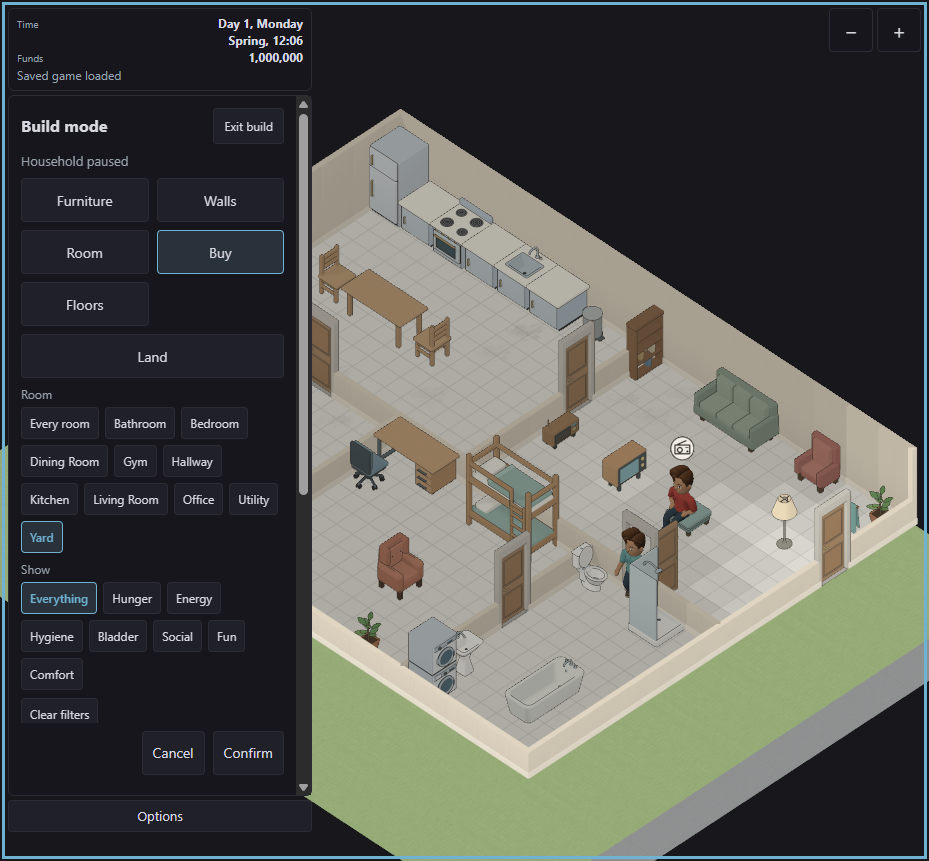
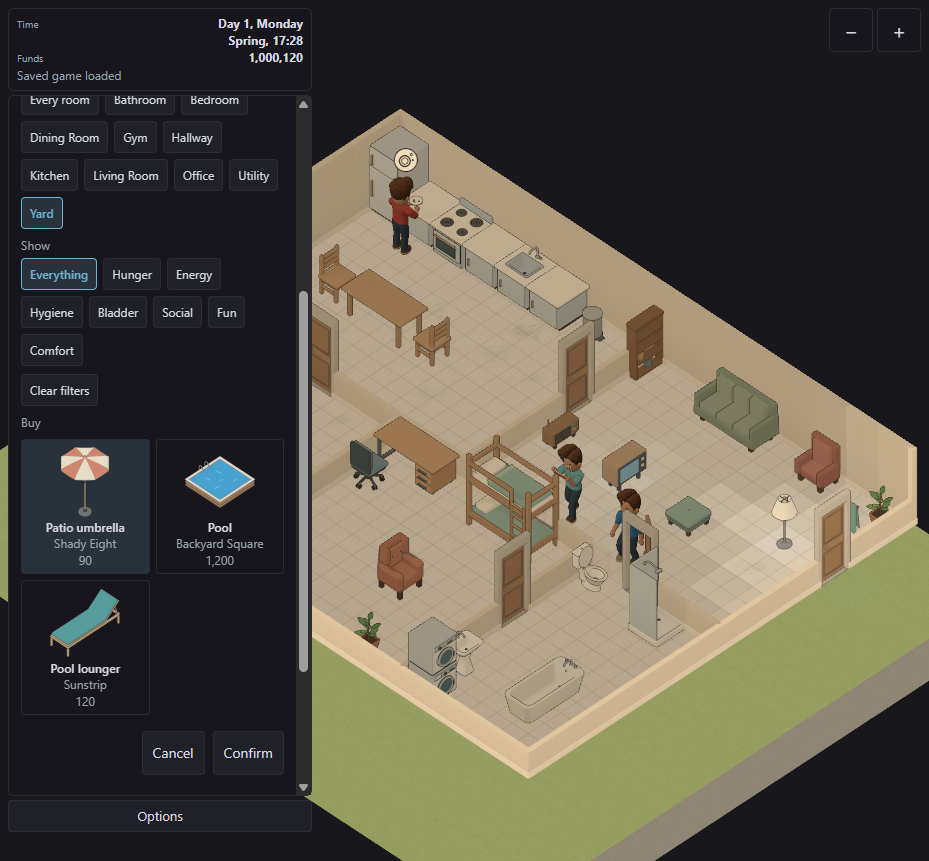
Retake the outdoor furniture played pass with depth and both lounger facings
Frames now show the Yard cards, all three items on the grass, Bill seated clear of the bottom panel, and a second seated check with the lounger's backrest end facing the camera, all on the build whose outdoor sprites carry registered depth. The README separates what the frames show from what the page reported, explains the timeline before Bill sat, and says what was not checked.

diff --git a/docs/evidence/2026-10-17-outdoor-furniture/README.md b/docs/evidence/2026-10-17-outdoor-furniture/README.md
@@ -1,18 +1,26 @@
 # Outdoor furniture played pass, 2026-10-17
 
-A played check of the pool, the pool lounger and the patio umbrella (issue 250, `docs/specs/2026-10-17-outdoor-furniture.md`) on the production bundle of branch `twcl/250-outdoor` at commit `a6601921a` (`index-ogptpZ8i.js`, rebuilt from the committed tree after main was merged in, so the placement marker and the seasons clock appear too). It was served by `vite preview` on port 4173 and driven in a Playwright-controlled Chromium window, because the desktop app's browser pane was hidden and could not draw. The household's money came from a schema-thirteen save of the shipped lot with $1,000,000, written into the page's save slot; the game's sound was muted. Frames are lossless 929 by 861 captures, after one step of Zoom out from frame 03 on; frame 08 is a four times enlargement of frame 07. The art itself was reviewed separately in `docs/assets/review-evidence/outdoor/2026-10-17/art-review.md`.
+A played check of the pool, the pool lounger and the patio umbrella (issue 250, `docs/specs/2026-10-17-outdoor-furniture.md`) on the production bundle `index-Dd0DGKyd.js`, built from branch `twcl/250-outdoor` at commit `960dfd1b9`. Its WebAssembly module was built just before that commit merged main's pull request 288, which changed only comments, tests and one function's visibility in the simulation crate. From this build each outdoor sprite has registered depth in the `outdoor-depth` bundle, so frames 07 to 10 show the seated pose drawn with it.
+
+The bundle was served by `vite preview` on port 4173 and driven in a Playwright-controlled Chromium window, because the desktop app's browser pane was hidden and could not draw. The household's money came from a save of the shipped lot written into the page's save slot; the clock ran for about 20 seconds while the page loaded, and the game was paused at Day 1, 17:28 with funds of 1,000,120. The game's sound was muted. The art itself was reviewed separately in `docs/assets/review-evidence/outdoor/2026-10-17/art-review.md`.
+
+Frames are lossless 929 by 861 captures. Frames 02 to 07 and 09 are taken after one step of Zoom out and a middle-button drag that brought the yard in front of the house into view. Frames 08 and 10 are four times enlargements of frames 07 and 09.
 
 | Image | Moment | What it shows |
 | --- | --- | --- |
-| `01-yard-filter.png` | Build mode, the Buy tool, the new Yard button under Room pressed | Yard listed as a Room button, and the three cards it leaves: Patio umbrella, Shady Eight, $90; Pool, Backyard Square, $1,200; Pool lounger, Sunstrip, $120. |
-| `02-pool-ghost.png` | The pool chosen and placed on the yard below the house; Ready to buy. | The pool's ghost on the grass inside one blue floor ellipse, with Buy $1,200 beside it. |
-| `03-lounger-ghost-south-west.png` | The pool bought, then the lounger placed beside it facing south-west; Ready to buy. | The lounger's ghost inside one long ellipse tilted along it, with Buy $120 beside it. |
-| `04-lounger-ghost-north-west.png` | The lounger turned clockwise once; Ready to buy. | The lounger and its ellipse turned to face north-west. |
-| `05-three-bought.png` | The lounger turned back and bought, then the umbrella placed and bought | The pool, the lounger and the umbrella on the yard, funds 998,590 (1,000,000 less $1,200, $120 and $90); the red ellipse is the next umbrella's ghost, refused because the spot is now taken. |
-| `06-lounger-menu.png` | After the footer's Confirm and Exit build, Bill selected, a right-click on the lounger | The action menu titled Pool lounger, Sunstrip, with Sit, Enter build mode and Nothing. |
-| `07-housemate-on-lounger.png` | Sit chosen, the clock run until Bill reached the lounger | Bill sitting on the lounger in the yard at night, with the seat bubble over his head and the selection ring under him. |
-| `08-housemate-on-lounger-zoom.png` | Frame 07 enlarged around the lounger | Bill's whole body on the lounger's front edge with his feet on the grass, the ring under his feet and the bubble above his head. |
+| `01-yard-filter.png` | Build mode, the Buy tool, the Yard button under Room pressed | The Yard filter pressed and the three cards it leaves, each with its picture: Patio umbrella, Shady Eight, 90; Pool, Backyard Square, 1,200; Pool lounger, Sunstrip, 120. |
+| `02-pool-ghost.png` | The pool chosen and moved onto the grass in front of the house | The pool's ghost on the grass inside one blue floor ellipse, with Buy $1,200 above it. |
+| `03-lounger-ghost-south-west.png` | The pool bought, then the lounger moved beside it in its first facing | The lounger's ghost inside one long ellipse tilted along it, with Buy $120 above it; the pool sits behind the Choose item and Cancel bar. |
+| `04-lounger-ghost-north-west.png` | The lounger turned clockwise once | The lounger and its ellipse turned. |
+| `05-three-bought.png` | The lounger turned back and bought, the umbrella placed on the grass and bought, and the selection cleared | The pool, the lounger and the umbrella on the grass, with funds of 998,710: 1,000,120 less $1,200, $120 and $90. |
+| `06-lounger-menu.png` | After the footer's Confirm, which also left Build mode, Bill selected and a right-click on the lounger | The action menu titled Pool lounger, Sunstrip, with Sit, Enter build mode and Nothing. |
+| `07-housemate-on-lounger.png` | Sit ordered, the clock run until Bill sat, paused at 22:18 | Bill sitting on the lounger at night, with the seat bubble over his head and the selection ring under him, well above the bottom panel. |
+| `08-housemate-on-lounger-zoom.png` | Frame 07 enlarged around the lounger | Bill's whole body on the foot end of the lounger with his feet on the grass, the ring under his feet and the bubble above his head. |
+| `09-housemate-on-lounger-north-west.png` | The lounger turned with the Furniture tool so its backrest end faces the camera, Sit ordered again, paused at 23:24 | Bill sitting on the turned lounger, with the bubble over his head and the ring under him. |
+| `10-housemate-on-lounger-north-west-zoom.png` | Frame 09 enlarged around the lounger | Bill's whole body on the lounger's edge with his feet on the grass and his hand on the cushion; no part of his body is missing behind the backrest end. |
 
-Checked in the page as well: each status line above is quoted as the page reported it; the lounger's menu description reads "A wooden sun lounger with a padded teal cushion and a raised back. Housemates can sit on its edge; lying back on it is not available yet."; the household's queue showed "Sit: Pool lounger" before Bill walked to it, and his activity then read Sitting; the console reported only the known missing favicon on the first load and no errors after it.
+The page reported these states, which the frames do not show as text. The first spot tried for the pool was refused with "Keep the entire object inside the lot." because it reached past the lot edge; the spot in frame 02 read "Ready to buy.", as did the lounger and umbrella ghosts, and each purchase read like "Patio umbrella bought.". The Furniture tool reported "Facing: South-west" for the bought lounger and "Facing: North-west" after one clockwise turn. The lounger's menu description reads "A wooden sun lounger with a padded teal cushion and a raised back." The console reported only the missing favicon.
 
-The driving window reported one quirk of the test harness rather than of the game: the action menu ignores a click from the same pointer that opened it, a guard for phones, and Playwright's mouse always reports the same pointer, so Sit was chosen by activating its menu button directly.
+Bill had no order of mine queued before Sit: his queue read "Going to read: The Quiet Moon", an action he had chosen himself. Sit was ordered at 17:28, and the queue first showed "Returning: The Quiet Moon" while he put the book back, then "Sit: Pool lounger" from 18:17 as he walked out; his activity read Sitting at 19:58. The pause landed after that sitting ended, so Sit was ordered again at 21:12 and a script in the page paused the game within 50 milliseconds of his activity reading Sitting, at 22:18. For frame 09 Bill first walked off, because the turned lounger needed the tile he stood on ("A Sim is standing there."); Sit was then ordered again and he sat at 23:23.
+
+Not checked: a housemate walking behind the pool or under the umbrella's canopy, which no command can stage, and sitting with the lounger in its south-east and north-east facings. The action menu ignores a click from the same pointer that opened it, a guard for phones, and Playwright's mouse always reports the same pointer, so Sit was chosen by activating its menu button directly.
